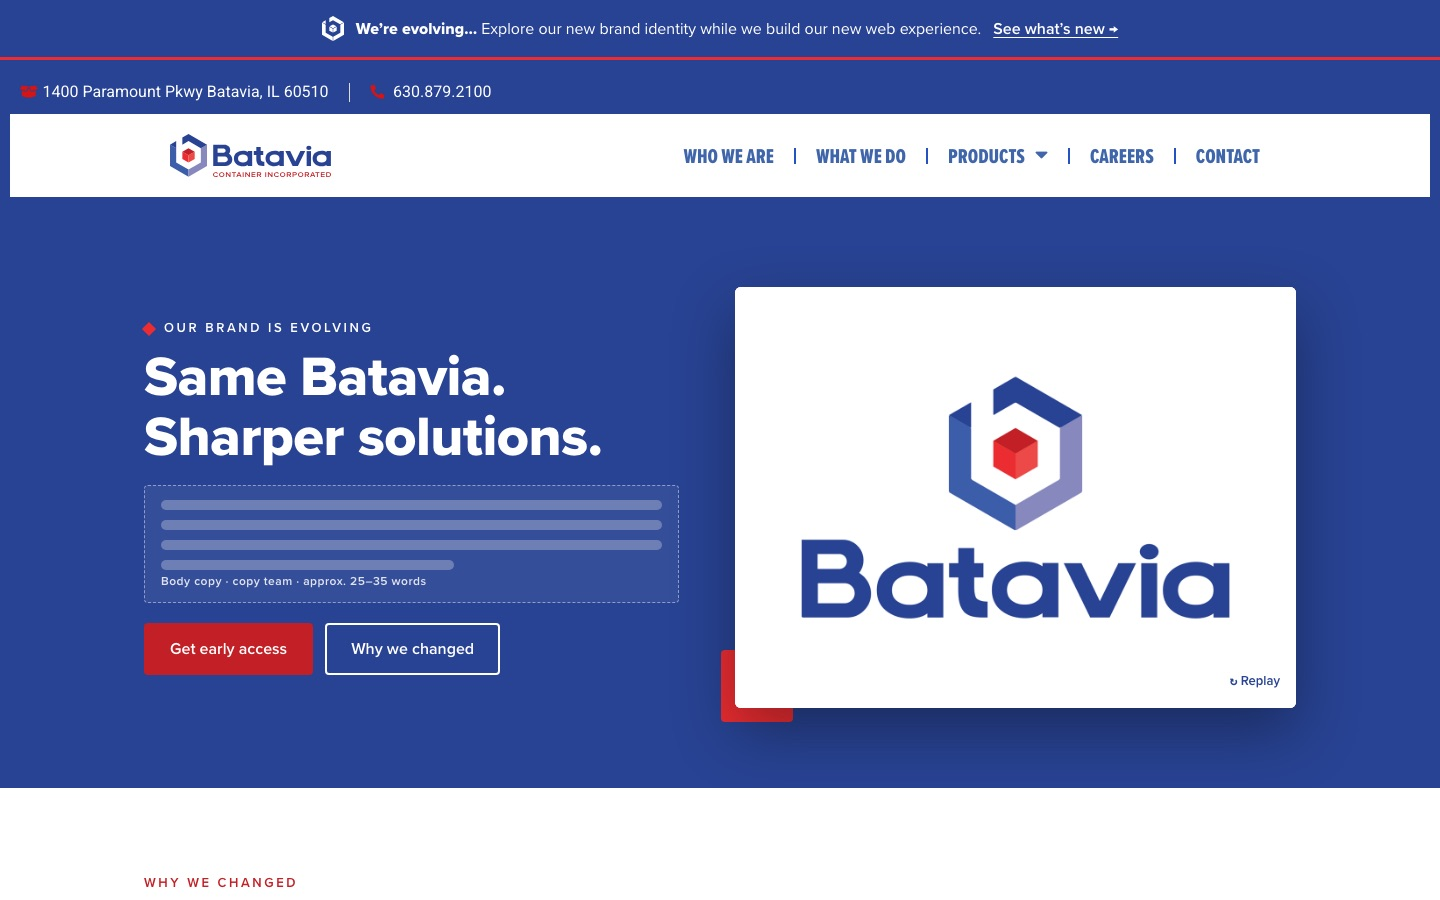
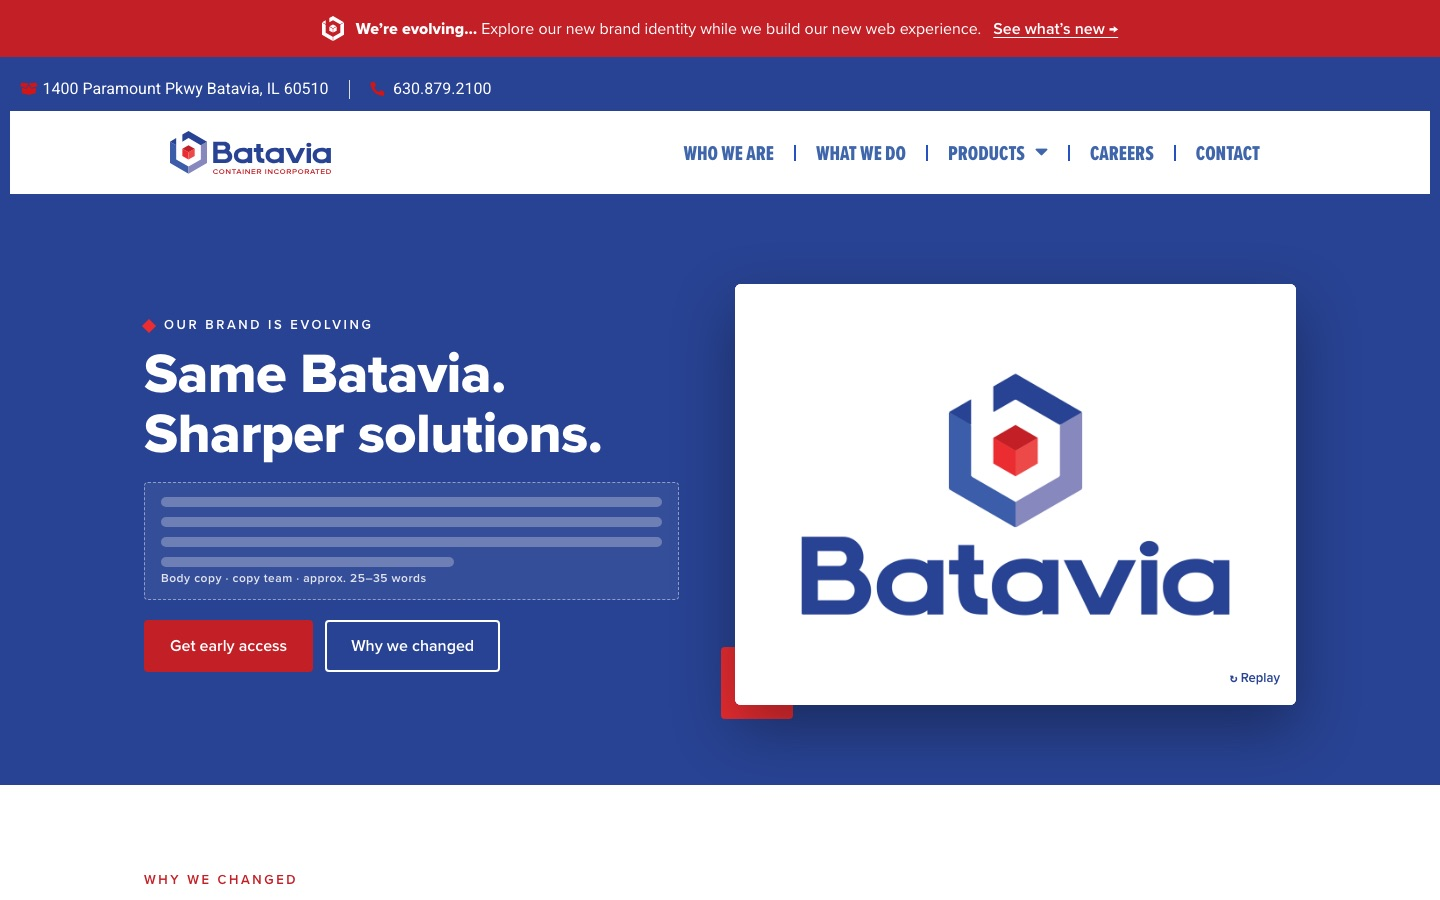
Update review mockups

diff --git a/live/phase1-additions.css b/live/phase1-additions.css
@@ -1,10 +1,9 @@
 /* Only the new Phase 1 element; everything else comes from the swept live CSS */
-.p1-announce { display: block; background: #284393; color: #fff; text-decoration: none;
+.p1-announce { display: block; background: #C22026; color: #fff;   /* Batavia Red 1: white text passes AA (6:1) */ text-decoration: none;
   font-family: "Proxima Nova", proxima-nova, "Helvetica Neue", Arial, sans-serif; font-size: 16px; line-height: 22px;
-  border-bottom: 3px solid #EB2D32;
   /* stays pinned to the top of the window while the page scrolls (below the popup, above the page) */
   position: -webkit-sticky; position: sticky; top: 0; z-index: 900; }
-.p1-announce:hover { background: #22397e; color: #fff; }
+.p1-announce:hover { background: #A51B20; color: #fff; }
 .p1-announce__inner { max-width: 1200px; margin: 0 auto; padding: 16px 24px; display: flex; align-items: center; justify-content: center; gap: 12px; }
 .p1-announce__mark { width: 22px; height: auto; flex: none; }
 .p1-announce strong { font-weight: 800; }
